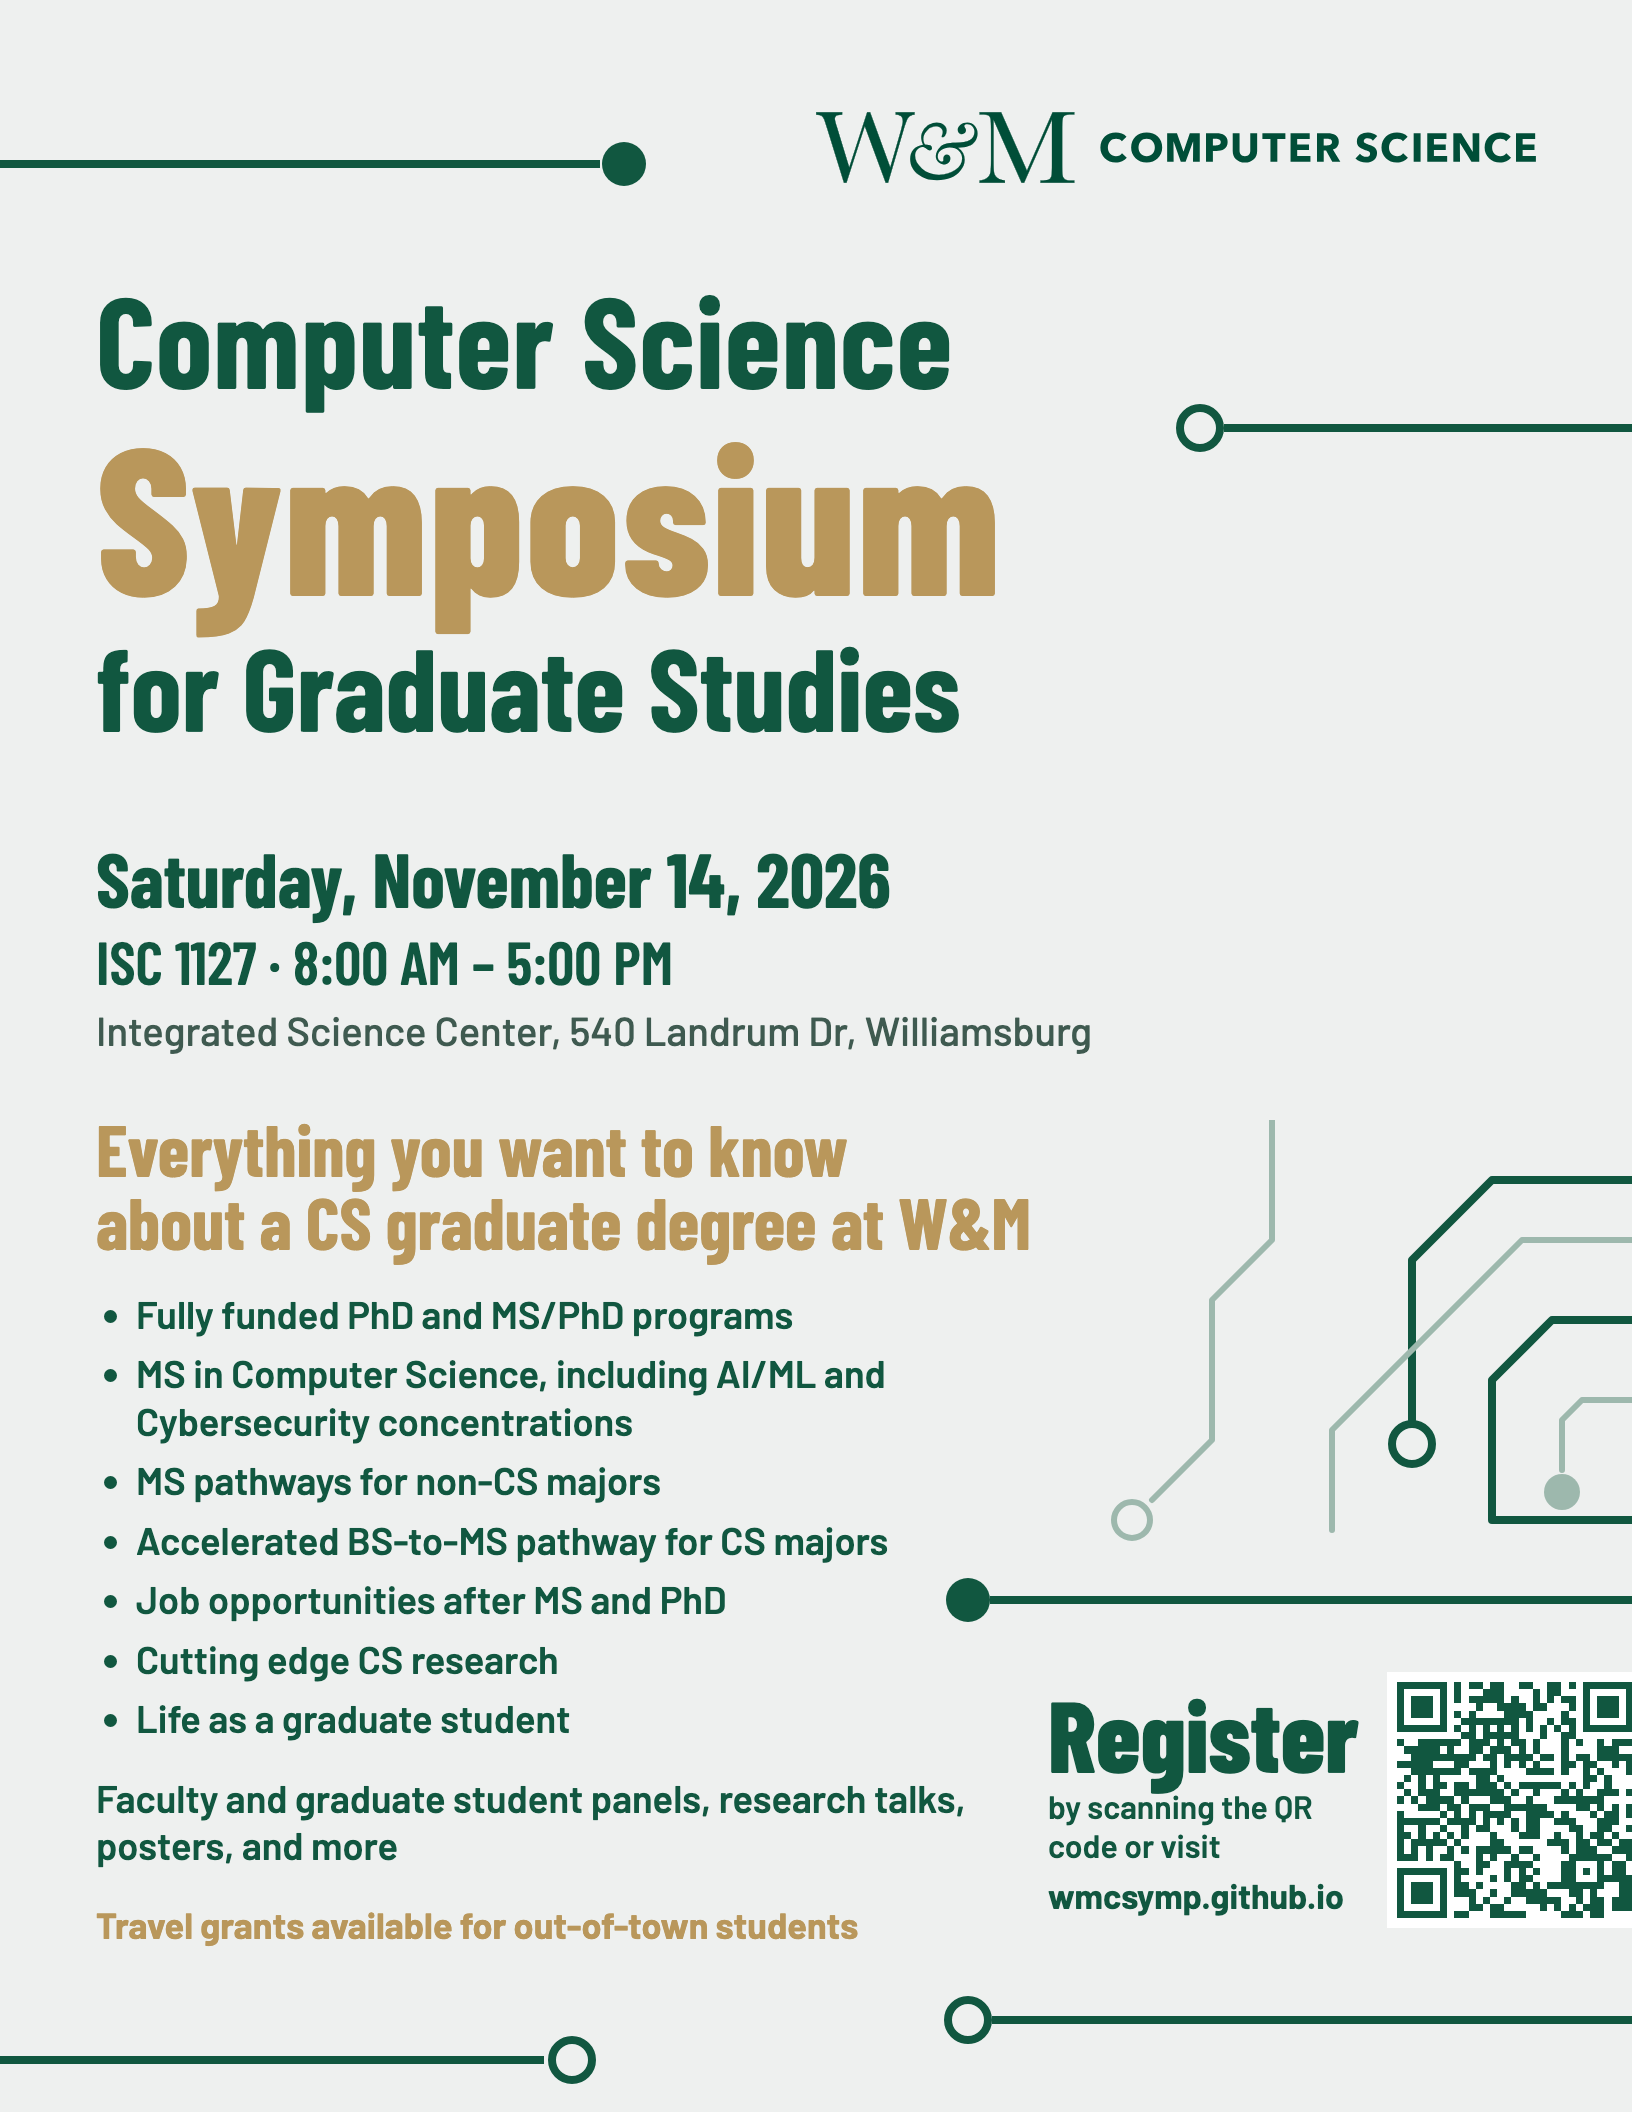
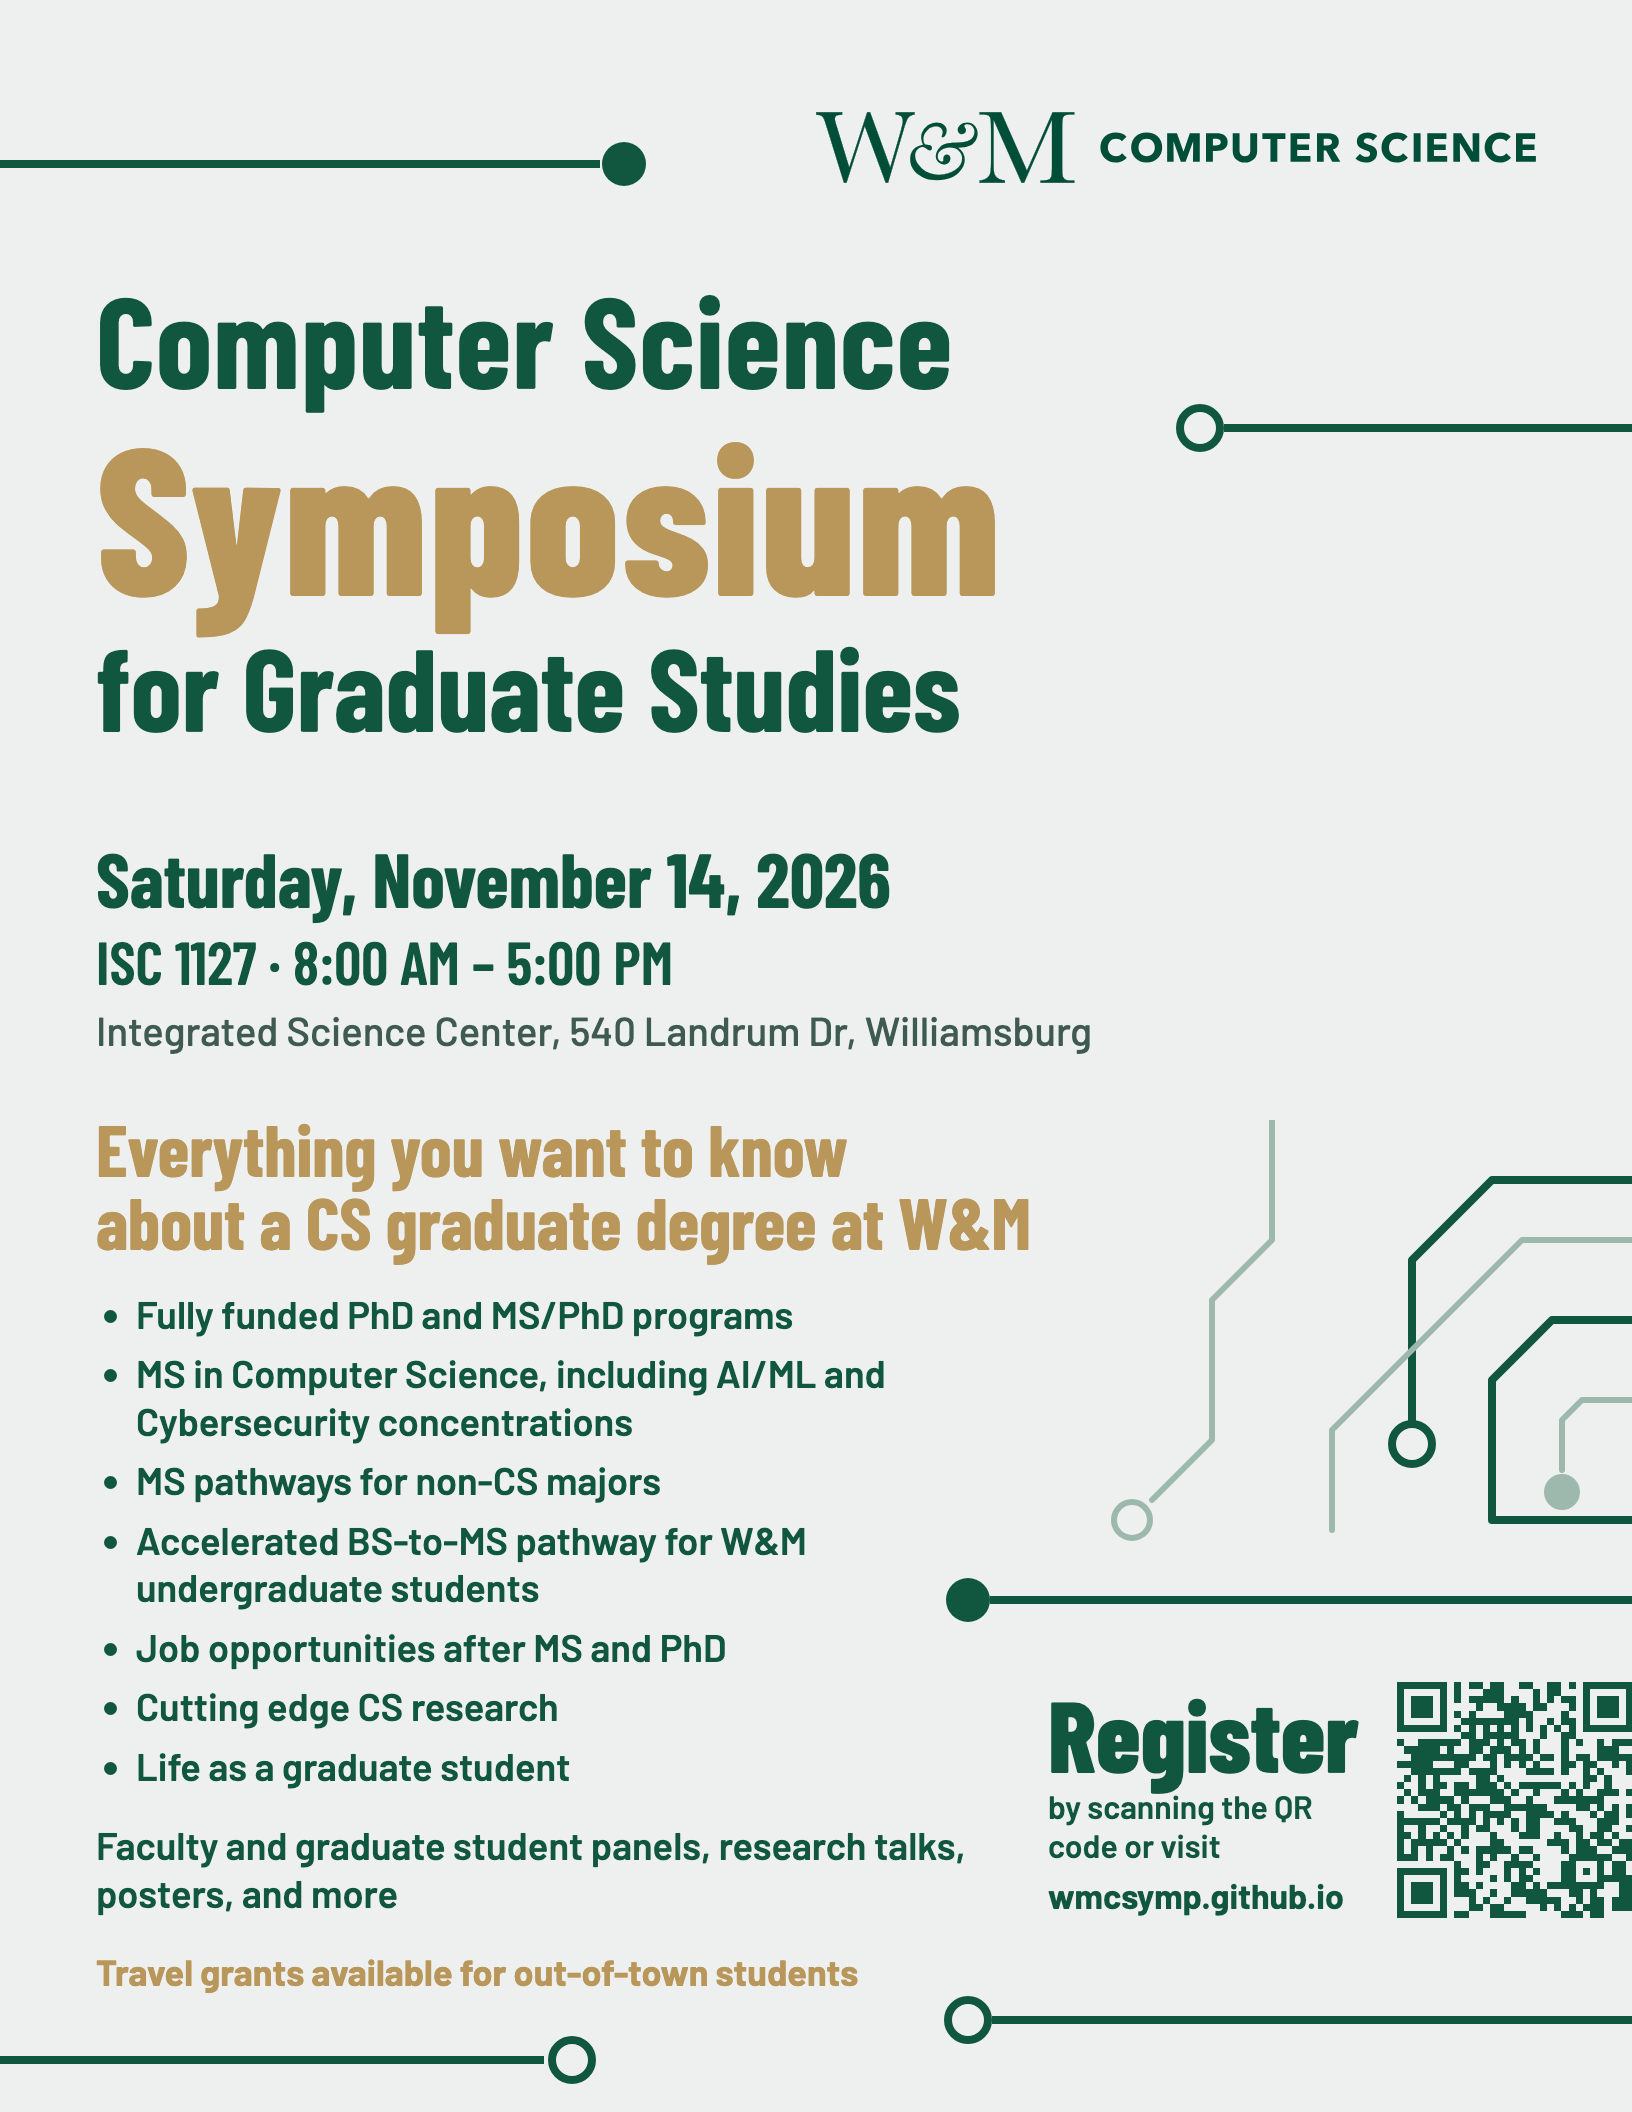
BMAP wording for W&M undergraduates, flyer update

Changed region(s): [[0.0625, 0.75, 0.5938, 0.9375], [0.4375, 0.7188, 0.5312, 0.75]]

diff --git a/index.html b/index.html
@@ -111,7 +111,7 @@
                                 <li>Funded PhD and MS/PhD degrees</li>
                                 <li>MS in Computer Science, including <a href="https://cdsp.wm.edu/computerscience/graduate/" target="_blank">AI/ML and Cybersecurity concentrations</a></li>
                                 <li>MS pathways for non-CS Majors</li>
-                                <li>Accelerated BS-to-MS pathway for CS majors</li>
+                                <li>Accelerated BS-to-MS pathway for W&amp;M undergraduate students</li>
                                 <li>Job Opportunities after an MS or PhD in CS</li>
                                 <li>Cutting edge CS Research</li>
                                 <li>Life as a Graduate student at W&M</li>
